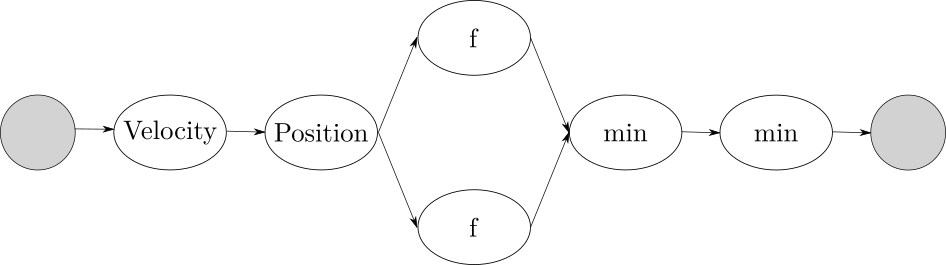
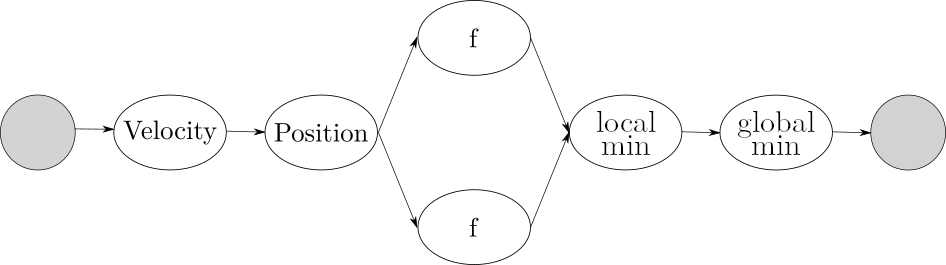
Revision

Changed region(s): [[0.6131, 0.4226, 0.7051, 0.6038], [0.7664, 0.4226, 0.8584, 0.6038]]

diff --git a/report.md b/report.md
@@ -14,14 +14,13 @@ while not termination:
       global_min = p.local_min
 ```
 
-The algorithm approximates the minimum value of a real function $f$ via several iterations of the procedure that updates a set of particles, for the sake of simplicity the number of iterations $m$ is provided by the user.
-Because of the constant and minimum contribution to the performance, the parallelization of the work needed to compute the initial state of the system has not been addressed in the implementation or the report.
+The algorithm approximates the minimum value of a real function $f$ via several iterations of a procedure that updates a set of particles, for the sake of simplicity the number of iterations $m$ is provided by the user.
+Because of the constant contribution to the performance, the parallelization of the work needed to compute the initial state of the system has not been addressed in the implementation or the report.
 
 ## General considerations
 
-Each iteration computes a candidate to be the global minimum of a certain real function; the computation depends on the result of the previous states, so a **barrier** between subsequent iterations must exist to ensure soundness.
-
-The computation of the movement and the value of the function in a certain point is *embarrassing parallel* because of the independence of the particles. 
+Each iteration computes a candidate to be the global minimum of a certain real function, the result depends on the previous candidate, so iteration computations must be serialized;
+the update of the particles' internal state is instead embarrassing parallel because of their independence.
 
 The vector nature of the problem, given by the position and the speed of an object in a multidimensional space, is prone to the use of **vectorization** to parallelize the computation in independent dimensions.
 
@@ -29,38 +28,37 @@ The vector nature of the problem, given by the position and the speed of an obje
 
 A possible approach is to combine the **map** and the **reduce** high-order functions to parallelize the computation of a state.
 
-The elemental function $el$ given to the *map* should take a particle and the current global minimum, update the particle internal state and return a reference to the local minimum.
+The elemental function $el$ used by the map should take a particle and, given the previous global minimum candidate, update the particle internal state and return a reference to its local minimum.
 
 $$
-\textrm{el}: \textrm{particle} \times \textrm{result} \rightarrow \textrm{result}
+\textrm{el}_{glbmin}: \textrm{particle} \rightarrow \textrm{result}
 $$
 
-Given that the global minimum is always the minimum of the local minimums of all the particles, it's possible to *reduce* the result from the updated particles using the following *combiner function*.
+Given that the global minimum is always the minimum of the local minimums of all the particles, it's possible to reduce the result from the updated particles using the following combiner function.
 
 $$
 \min: \textrm{result} \times \textrm{result} \rightarrow \textrm{result}
 $$
 
-A two-phase reduction with a local reduction of a chunk and a global reduction for all the results is feasible because of the benefits of fusing map and reduce; this solution doesn't present *precision* problems because of the nature of the minimization operator, so it's possible to avoid a more complex and expensive tree-based reduction.
+A two-phase reduction with a local reduction of a chunk and a global reduction for all the results is feasible because of the benefits of fusing map and reduce like avoiding the need for synchronization;
+this solution doesn't present precision problems because of the nature of the minimization operator, so it's possible to avoid a more complex and expensive tree-based reduction.
 
 ![](img/mapreduce.png)
 
 ## Stream parallel solution
 
-Identifying the data dependencies allows a *functional deconstruction* of the body of the loop:
+Identifying the data dependencies allows a functional deconstruction of the body of the loop:
 
 - the update of the local minimum of a particle depends on the result of the user-provided function
 - the computed value depends on the current position of the particle
 - the position depends on the current velocity
 - the velocity of a particle depends on the local and global minimum
 
-Given these functional dependencies, it could be possible to benefit from a *pipeline introduction* using a first stage capable to generate a stream from a collection.
+Given these functional dependencies, it could be possible to benefit from a pipeline introduction using a first stage capable to generate a stream from a collection.
 
 ![](img/pipe.png)
 
-Since the user-provided $f$ function can be arbitrarily complex its service time could easily become the bottleneck of the pipeline.
-The proof of this intuition and the evidence of other bottlenecks could emerge during the *profiling* phase after the implementation.
-The performance could benefit so from a farm introduction.
+Since the user-provided $f$ function can be arbitrarily complex its service time could easily become the bottleneck of the pipeline, the performance could benefit so from a farm introduction.
 
 ![](img/farm.png)
 
@@ -104,7 +102,7 @@ $$
 T_{\textrm{PipeFarm}} \approx n * \max ( T_v , T_p , \frac{T_f}{n_w} , T_m )
 $$
 
-Assuming that a high number of particles is involved in the computation and that the $f$ complexity requires significant time, both the PipeFarm and the map-reduce solutions are theoretically equivalent.
+Assuming that a high number of particles is involved in the computation and that the $f$ complexity requires significant time, both the PipeFarm and the map-reduce solutions are practically equivalent.
 
 However it has to be considered that the communication needed between the stages in the pipeline solution and the effort needed to generate a stream from a collection, could produce a consistent overhead not present in the data-parallel solution
 Furthermore the possible adjustments to mitigate the pipeline overhead problem, as the fusion of the faster stages, would lead to a normal form stream-parallel pattern that resembles the data-parallel proposed solution except for the requirement to generate a stream.
